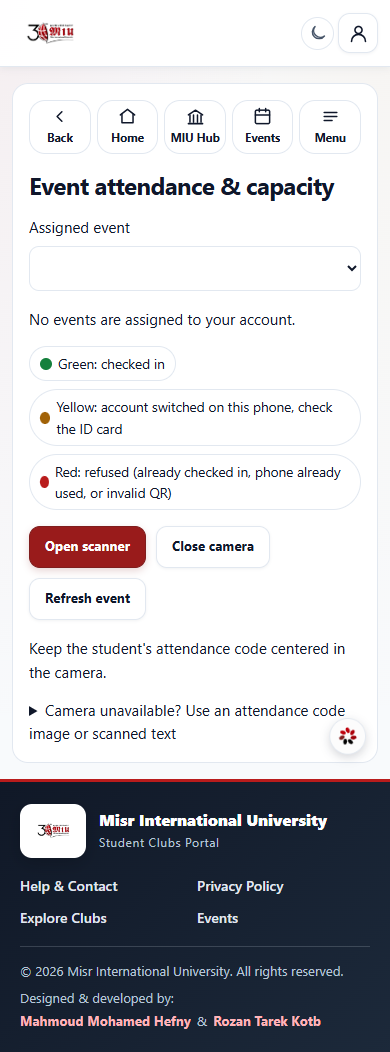
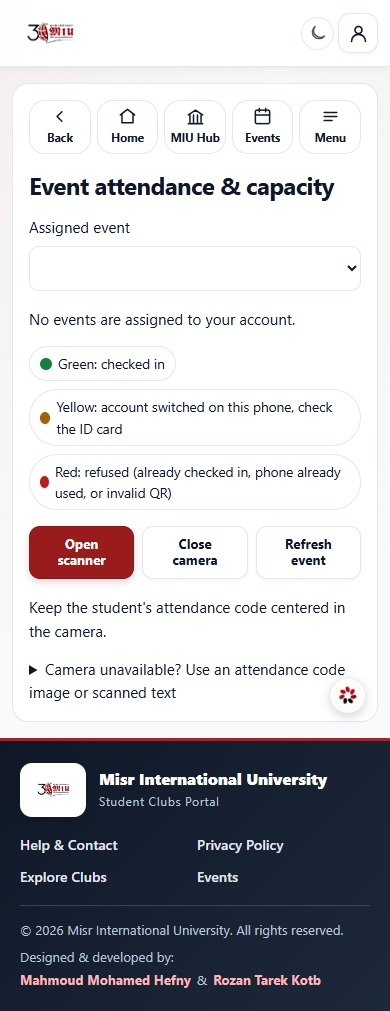
Even button layouts on scanner and usher task pages

diff --git a/public/pages/attendance-scanner.html b/public/pages/attendance-scanner.html
@@ -1,3 +1,3 @@
 <!doctype html>
-<html lang="en"><head><meta charset="utf-8"><meta name="viewport" content="width=device-width, initial-scale=1, maximum-scale=1, user-scalable=no, viewport-fit=cover"><title>Attendance scanner · MIU Activities</title><link rel="stylesheet" href="/assets/css/base.css?v=20261119ui1"><link rel="stylesheet" href="/assets/css/responsive.css"><link rel="stylesheet" href="/assets/css/dark.css"><link rel="stylesheet" href="/assets/css/pages/reverse-attendance.css?v=20261120qr1"><script src="/assets/js/shared.js"></script><script src="/assets/js/theme.js" defer></script><script src="/assets/js/layout.js" defer></script><script src="/assets/js/attendance-qr-style.js?v=20261120qr2" defer></script><script src="/assets/js/reverse-attendance.js?v=20261120signin1" defer></script>  <link rel="stylesheet" href="/assets/css/site-polish.css?v=20261117calendar1">
+<html lang="en"><head><meta charset="utf-8"><meta name="viewport" content="width=device-width, initial-scale=1, maximum-scale=1, user-scalable=no, viewport-fit=cover"><title>Attendance scanner · MIU Activities</title><link rel="stylesheet" href="/assets/css/base.css?v=20261119ui1"><link rel="stylesheet" href="/assets/css/responsive.css"><link rel="stylesheet" href="/assets/css/dark.css"><link rel="stylesheet" href="/assets/css/pages/reverse-attendance.css?v=20261120btn1"><script src="/assets/js/shared.js"></script><script src="/assets/js/theme.js" defer></script><script src="/assets/js/layout.js" defer></script><script src="/assets/js/attendance-qr-style.js?v=20261120qr2" defer></script><script src="/assets/js/reverse-attendance.js?v=20261120signin1" defer></script>  <link rel="stylesheet" href="/assets/css/site-polish.css?v=20261117calendar1">
 </head><body><div id="site-header"></div><main class="container reverse-attendance-page" data-reverse-attendance="scanner"><h1>Event attendance &amp; capacity</h1><label>Assigned event<select data-ra-event><option value="">Loading authorized events…</option></select></label><p data-ra-status role="status" aria-live="polite"></p><p data-ra-details></p><ul class="ra-legend" aria-label="What the scan colours mean"><li><i style="background:#15803d"></i>Green: checked in</li><li><i style="background:#a16207"></i>Yellow: account switched on this phone, check the ID card</li><li><i style="background:#b91c1c"></i>Red: refused (already checked in, phone already used, or invalid QR)</li></ul><div class="reverse-attendance-actions"><button type="button" class="primary-btn" data-ra-camera>Open scanner</button><button type="button" class="secondary-btn" data-ra-close>Close camera</button><button type="button" class="secondary-btn" data-ra-refresh>Refresh event</button></div><video data-ra-video playsinline muted aria-label="Attendance scanner camera" hidden></video><p class="reverse-camera-help">Keep the student's attendance code centered in the camera.</p><details><summary>Camera unavailable? Use an attendance code image or scanned text</summary><label>Attendance code image<input data-ra-file type="file" accept="image/*"></label><form data-ra-manual><label>Scanned attendance code<textarea name="token" required maxlength="2500" autocomplete="off" spellcheck="false"></textarea></label><button class="secondary-btn" type="submit">Validate scanned code</button></form></details><section data-ra-result class="reverse-attendance-result" role="status" aria-live="polite" hidden></section><form data-ra-verify hidden><p>Compare the student's full name and university ID with their university card before confirming.</p><label class="reverse-checkbox"><input name="verified" type="checkbox" required> I verified this student's university card</label><label>Verification note<textarea name="note" required minlength="5" maxlength="500"></textarea></label><button class="primary-btn" type="submit">Confirm verified attendance</button></form><button class="secondary-btn" type="button" data-ra-next hidden>Scan next student</button><form data-ra-settings hidden><h2>Capacity &amp; attendance schedule</h2><p>Registration places are separate from attendance totals. Lowering capacity preserves existing registrations.</p><label>Maximum registrations (blank = unlimited)<input name="capacity" type="number" min="0" max="100000" step="1"></label><label>Event timezone<input name="timeZone" value="Africa/Cairo" required maxlength="80"></label><label>Attendance end time (blank = end of event day)<input name="endTime" type="time"></label><label class="reverse-checkbox"><input name="cancellationEnabled" type="checkbox"> Allow students to cancel registration before the event starts</label><button class="primary-btn" type="submit">Save capacity &amp; schedule</button><p data-ra-settings-feedback role="status"></p></form></main><div id="site-footer"></div></body></html>

diff --git a/public/pages/attendance-qr.html b/public/pages/attendance-qr.html
@@ -1,3 +1,3 @@
 <!doctype html>
-<html lang="en"><head><meta charset="utf-8"><meta name="viewport" content="width=device-width, initial-scale=1, maximum-scale=1, user-scalable=no, viewport-fit=cover"><title>My attendance QR · MIU Activities</title><link rel="stylesheet" href="/assets/css/base.css?v=20261119ui1"><link rel="stylesheet" href="/assets/css/responsive.css"><link rel="stylesheet" href="/assets/css/dark.css"><link rel="stylesheet" href="/assets/css/pages/reverse-attendance.css?v=20261120qr1"><script src="/assets/js/shared.js"></script><script src="/assets/js/theme.js" defer></script><script src="/assets/js/layout.js" defer></script><script src="/assets/js/attendance-qr-style.js?v=20261120qr2" defer></script><script src="/assets/js/reverse-attendance.js?v=20261120signin1" defer></script>  <link rel="stylesheet" href="/assets/css/site-polish.css?v=20261117calendar1">
+<html lang="en"><head><meta charset="utf-8"><meta name="viewport" content="width=device-width, initial-scale=1, maximum-scale=1, user-scalable=no, viewport-fit=cover"><title>My attendance QR · MIU Activities</title><link rel="stylesheet" href="/assets/css/base.css?v=20261119ui1"><link rel="stylesheet" href="/assets/css/responsive.css"><link rel="stylesheet" href="/assets/css/dark.css"><link rel="stylesheet" href="/assets/css/pages/reverse-attendance.css?v=20261120btn1"><script src="/assets/js/shared.js"></script><script src="/assets/js/theme.js" defer></script><script src="/assets/js/layout.js" defer></script><script src="/assets/js/attendance-qr-style.js?v=20261120qr2" defer></script><script src="/assets/js/reverse-attendance.js?v=20261120signin1" defer></script>  <link rel="stylesheet" href="/assets/css/site-polish.css?v=20261117calendar1">
 </head><body><div id="site-header"></div><main class="container reverse-attendance-page" data-reverse-attendance="student"><a class="secondary-btn" href="/?myForms=1">← My dashboard</a><h1>My attendance QR</h1><p>Choose an event you registered for. Show its QR code to the person taking attendance. It refreshes every 15 seconds. Opening this page never marks you present.</p><label>Registered event<select data-ra-event><option value="">Loading registered events…</option></select></label><p data-ra-status role="status" aria-live="polite"></p><p data-ra-clock></p><div data-ra-qr class="reverse-qr" role="img" aria-label="Personal attendance QR"></div><button type="button" class="secondary-btn" data-ra-refresh>Refresh status</button><a class="secondary-btn" href="/pages/attendance-scanner.html">Assigned attendance tasks</a></main><div id="site-footer"></div></body></html>

diff --git a/public/pages/my-attendance-task.html b/public/pages/my-attendance-task.html
@@ -1,5 +1,5 @@
 <!doctype html><html lang="en"><head><meta charset="utf-8"><meta name="viewport" content="width=device-width, initial-scale=1, maximum-scale=1, user-scalable=no, viewport-fit=cover">
-<title>Attendance usher task · MIU Activities</title><link rel="stylesheet" href="/assets/css/base.css?v=20261119ui1"><link rel="stylesheet" href="/assets/css/responsive.css"><link rel="stylesheet" href="/assets/css/dark.css"><link rel="stylesheet" href="/assets/css/features.css"><link rel="stylesheet" href="/assets/css/pages/event-reports.css?v=20261120nav1"><script src="/assets/js/shared.js?v=20261119plain1"></script>
+<title>Attendance usher task · MIU Activities</title><link rel="stylesheet" href="/assets/css/base.css?v=20261119ui1"><link rel="stylesheet" href="/assets/css/responsive.css"><link rel="stylesheet" href="/assets/css/dark.css"><link rel="stylesheet" href="/assets/css/features.css"><link rel="stylesheet" href="/assets/css/pages/event-reports.css?v=20261120btn1"><script src="/assets/js/shared.js?v=20261119plain1"></script>
   <script src="/assets/js/theme.js" defer></script><script src="/assets/js/install-welcome.js?v=20261014promptqueue1" defer></script><script src="/assets/js/pages/my-attendance-task.js?v=20261120self2" defer></script>  <link rel="stylesheet" href="/assets/css/site-polish.css?v=20261117calendar1">
   <script src="/assets/js/layout.js?v=20261119google2" defer></script>
 </head>

diff --git a/public/assets/css/pages/reverse-attendance.css b/public/assets/css/pages/reverse-attendance.css
@@ -36,3 +36,8 @@
 
 /* Standard square QR: keep the corner markers (no circle crop) and scale to the space. */
 .attendance-qr-art.is-standard-qr { border-radius: 14px !important; width: min(260px, calc(100vw - 64px)); height: auto; aspect-ratio: 1; background: #fff; box-shadow: 0 0 0 1px var(--border-color, #e2e8f0); }
+
+/* Scanner buttons: one tidy row of equal buttons (Open scanner is the main one). */
+.reverse-attendance-actions { display: grid; grid-template-columns: repeat(3, minmax(0, 1fr)); gap: 8px; }
+.reverse-attendance-actions > button { width: 100%; min-width: 0; min-height: 44px; padding: 8px 6px; white-space: normal; line-height: 1.2; }
+@media (max-width: 380px) { .reverse-attendance-actions { grid-template-columns: repeat(2, minmax(0, 1fr)); } .reverse-attendance-actions > [data-ra-camera] { grid-column: 1 / -1; } }

diff --git a/public/pages/report-downloads.html b/public/pages/report-downloads.html
@@ -5,7 +5,7 @@
   <title>Download reports · MIU Activities</title>
   <link rel="stylesheet" href="/assets/css/base.css?v=20261119ui1"><link rel="stylesheet" href="/assets/css/responsive.css">
   <link rel="stylesheet" href="/assets/css/dark.css"><link rel="stylesheet" href="/assets/css/features.css">
-  <link rel="stylesheet" href="/assets/css/pages/event-reports.css?v=20261120nav1">
+  <link rel="stylesheet" href="/assets/css/pages/event-reports.css?v=20261120btn1">
   <script src="/assets/js/shared.js?v=20261119plain1"></script>
   <script src="/assets/js/theme.js" defer></script><script src="/assets/js/install-welcome.js?v=20261014promptqueue1" defer></script>
   <script src="/assets/js/pages/report-downloads.js?v=20261014progressive1" defer></script>

diff --git a/public/pages/miu-attendance.html b/public/pages/miu-attendance.html
@@ -5,7 +5,7 @@
   <title>MIU event attendance · MIU Activities</title>
   <link rel="stylesheet" href="/assets/css/base.css?v=20261119ui1"><link rel="stylesheet" href="/assets/css/responsive.css">
   <link rel="stylesheet" href="/assets/css/dark.css"><link rel="stylesheet" href="/assets/css/features.css">
-  <link rel="stylesheet" href="/assets/css/pages/event-reports.css?v=20261120nav1">
+  <link rel="stylesheet" href="/assets/css/pages/event-reports.css?v=20261120btn1">
   <script src="/assets/js/shared.js?v=20261119plain1"></script>
   <script src="/assets/js/theme.js" defer></script><script src="/assets/js/install-welcome.js?v=20261014promptqueue1" defer></script>
   <script src="/assets/js/pages/miu-attendance.js?v=20261120team1" defer></script>

diff --git a/public/dashboards/supervisor-dashboard.html b/public/dashboards/supervisor-dashboard.html
@@ -18,7 +18,7 @@
     <script src="/assets/js/layout.js?v=20261119google2" defer></script>
   <script src="/assets/js/supervisor-dashboard.js?v=20261119plain1" defer></script>
   <link rel="stylesheet" href="/assets/css/modal-controls.css?v=20261116closeunify2">
-  <link rel="stylesheet" href="/assets/css/pages/event-reports.css?v=20261120nav1">
+  <link rel="stylesheet" href="/assets/css/pages/event-reports.css?v=20261120btn1">
   <script src="/assets/js/feed-media.js?v=20261015videopopup1"></script>
 <link rel="stylesheet" href="/assets/css/pages/speaker-requests.css?v=20261120dead1">
 <script src="/assets/js/supervisor-speaker-invitations.js?v=20261017miuinvites1" defer></script>

diff --git a/public/assets/css/pages/event-reports.css b/public/assets/css/pages/event-reports.css
@@ -115,3 +115,8 @@ body:not(.has-bottom-bar):has(.floating-back-control:not([hidden])) main { paddi
 .miu-role-badge.is-supervisor { background: #eef2ff; color: #3730a3; }
 .miu-role-badge.is-usher { background: #ecfdf5; color: #047857; }
 .miu-attendance-note { color: var(--text-muted, #64748b); font-size: .88rem; }
+
+/* Usher task: "Take my attendance" and "Open attendance scanner" are the same full width, stacked. */
+#usherTask #usherSelfCheckinForm, #usherTask #usherTaskActions { max-width: 36rem; }
+#usherTask #usherTaskActions { display: grid; gap: .75rem; }
+#usherTask #usherTaskActions > button, #usherTask #recordUsherAttendance { width: 100%; min-height: 48px; }

diff --git a/public/dashboards/miu-events-dashboard.html b/public/dashboards/miu-events-dashboard.html
@@ -9,7 +9,7 @@
   <link rel="stylesheet" href="/assets/css/dark.css?v=20261120dead1">
   <link rel="stylesheet" href="/assets/css/features.css?v=20261120slots2">
   <link rel="stylesheet" href="/assets/css/modal-controls.css?v=20261116closeunify2">
-  <link rel="stylesheet" href="/assets/css/pages/event-reports.css?v=20261120nav1">
+  <link rel="stylesheet" href="/assets/css/pages/event-reports.css?v=20261120btn1">
   <link rel="stylesheet" href="/assets/css/pages/miu-events-dashboard.css?v=20261119dash3">
   <script src="/assets/js/shared.js?v=20261119plain1"></script>
   <script src="/assets/js/site-loading.js?v=20261014promptqueue1"></script>

diff --git a/public/index.html b/public/index.html
@@ -27,7 +27,7 @@
     <link rel="stylesheet" href="/assets/css/pages/speaker-requests.css?v=20261120dead1" />
       <script defer src="/assets/js/pwa-register.js?v=20261119ui1"></script>
     <link rel="stylesheet" href="/assets/css/modal-controls.css?v=20261116closeunify2">
-  <link rel="stylesheet" href="/assets/css/pages/event-reports.css?v=20261120nav1">
+  <link rel="stylesheet" href="/assets/css/pages/event-reports.css?v=20261120btn1">
   <script src="/assets/js/feed-media.js?v=20261015videopopup1" defer></script>
   <link rel="stylesheet" href="/assets/css/site-polish.css?v=20261117calendar1">
 </head>

diff --git a/public/pages/post-event-reports.html b/public/pages/post-event-reports.html
@@ -17,7 +17,7 @@
     <link rel="apple-touch-icon" href="/assets/img/pics/pwa-icon-192.png?v=20261013favicon1">
     <meta name="apple-mobile-web-app-title" content="MIU Activities">
     <meta name="application-name" content="MIU Activities">
-    <link rel="stylesheet" href="/assets/css/pages/post-event-reports.css?v=20261120nav1" />
+    <link rel="stylesheet" href="/assets/css/pages/post-event-reports.css?v=20261120btn1" />
     <link rel="stylesheet" href="/assets/css/modal-controls.css?v=20261116closeunify2">
     <link rel="stylesheet" href="/assets/css/site-polish.css?v=20261117calendar1">
   </head>

diff --git a/public/dashboards/dean-dashboard.html b/public/dashboards/dean-dashboard.html
@@ -22,7 +22,7 @@
   <script src="/assets/js/student-feedback.js?v=20261119checkin1" defer></script>
       <script defer src="/assets/js/pwa-register.js?v=20261119ui1"></script>
     <link rel="stylesheet" href="/assets/css/modal-controls.css?v=20261116closeunify2">
-  <link rel="stylesheet" href="/assets/css/pages/event-reports.css?v=20261120nav1">
+  <link rel="stylesheet" href="/assets/css/pages/event-reports.css?v=20261120btn1">
   <script src="/assets/js/feed-media.js?v=20261015videopopup1" defer></script>
   <link rel="stylesheet" href="/assets/css/site-polish.css?v=20261117calendar1">
 </head>
